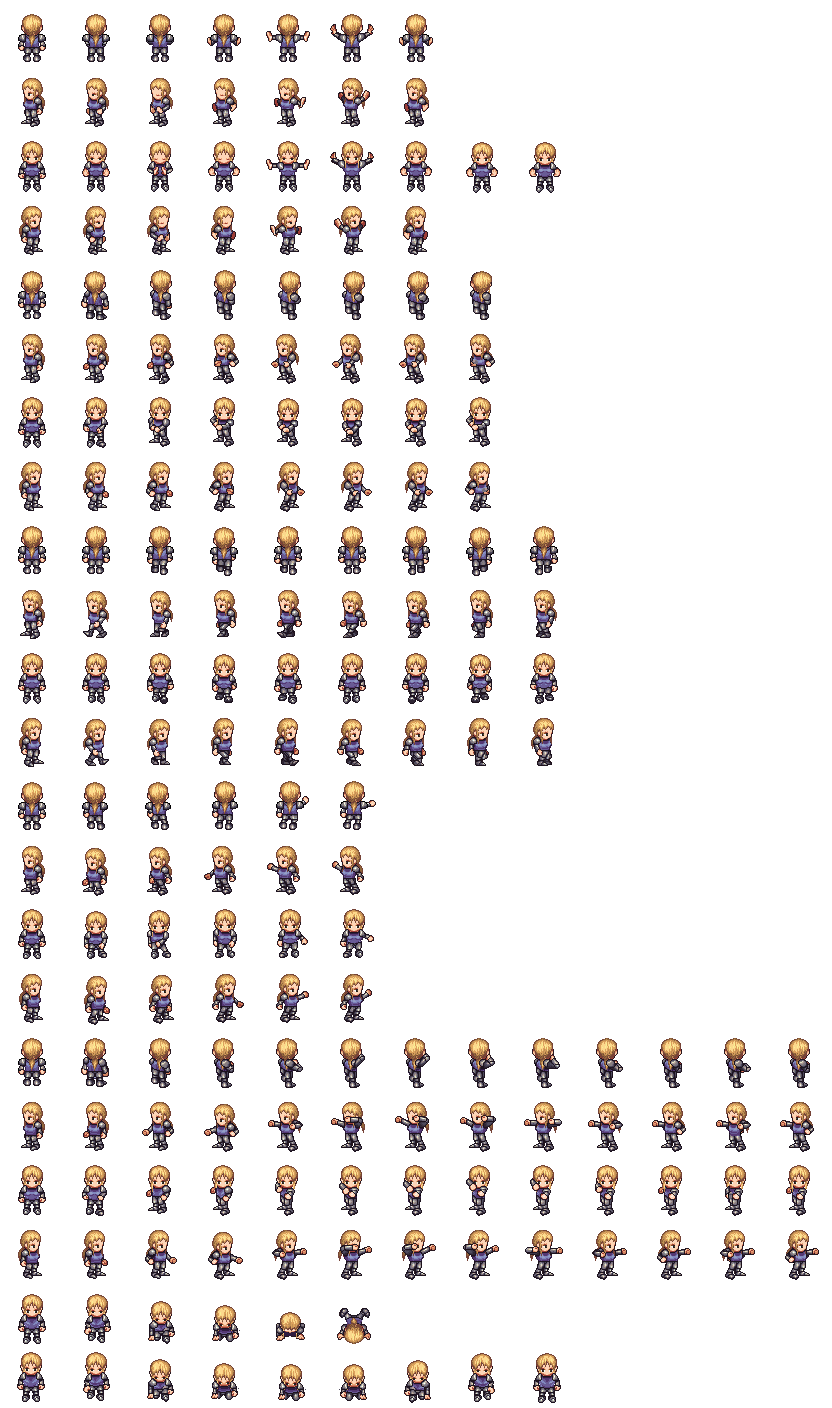
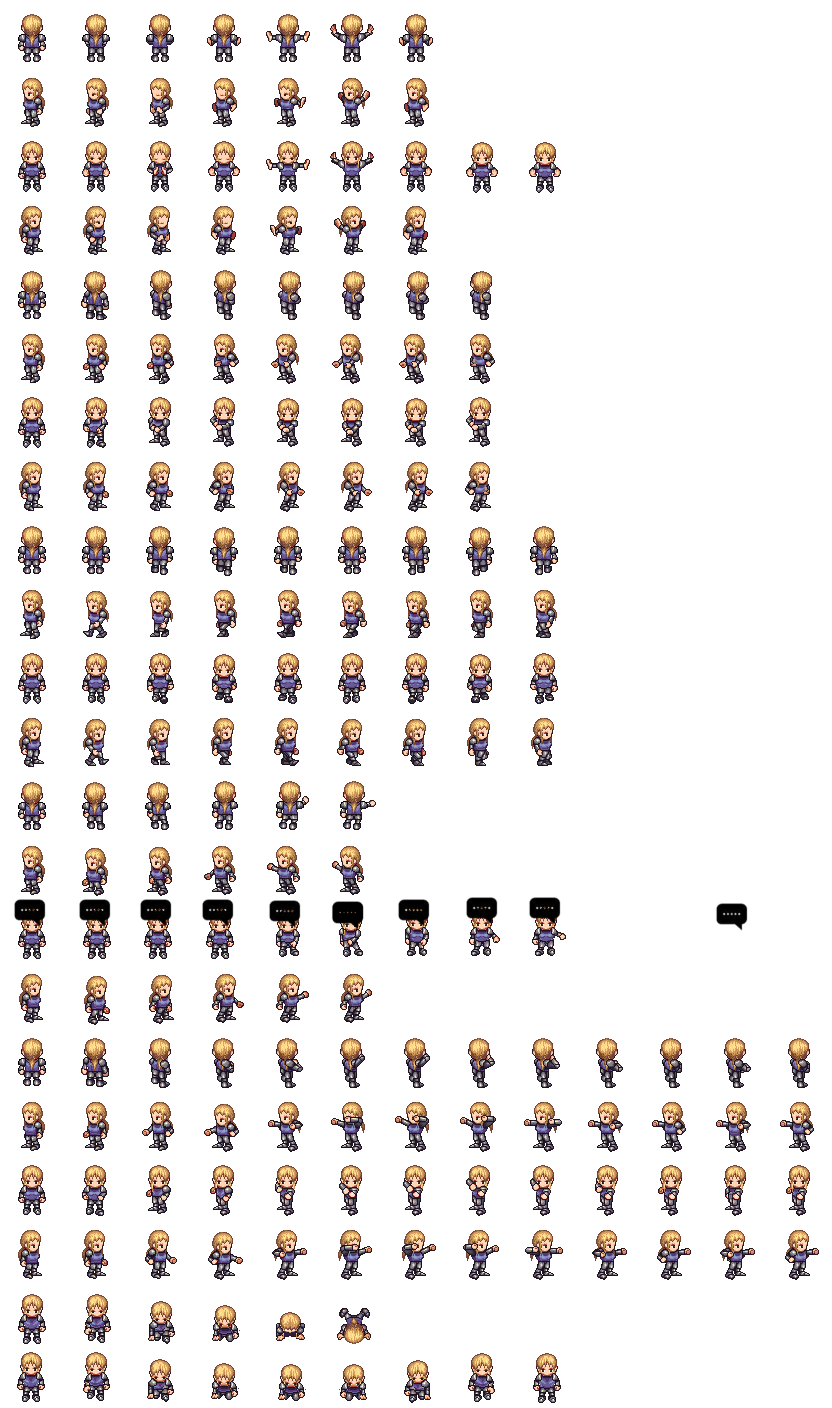
[+] added broadcast animation + broadcast command

diff --git a/Src/ParseEnqueueMap.cpp b/Src/ParseEnqueueMap.cpp
@@ -226,6 +226,9 @@ void irc::ParseEnqueueMap::parseNextCommand(irc::Map &map)
 		} else if (it.getCommandName() == "pic") {
 			std::cout << "c une incantation" << std::endl;
 			incantPlayer(map, it);
+		} else if (it.getCommandName() == "pbc") {
+			std::cout << "c un broadcast" << std::endl;
+			broadcastPlayer(map, it);
 		}
 		_comm.getEnqueueMap().erase(_comm.getEnqueueMap().begin());
 
@@ -508,5 +511,15 @@ void irc::ParseEnqueueMap::incantPlayer(irc::Map &map, const CstringArray &comma
 		map.getCharacterMap().at(command.getCommand()[i]).setPlayerIncant(tmpFreq, 300, tmpPos);
 		++i;
 	}
+}
 
+void irc::ParseEnqueueMap::broadcastPlayer(irc::Map &map, const CstringArray &command)
+{
+	int tmpFreq = map.getComm().getFreq();
+		std::cout << "je boucle" << std::endl;
+		if (map.getCharacterMap().find((command.getCommand()[0])) == map.getCharacterMap().end()) {
+			std::cout << "[" << RED << "MAP"<< RESET << "] did not found player " << command.getCommand()[0] << ", exit broadcastPLayer"<< std::endl;
+		std::cout << "[" << GREEN << "MAP" << RESET << "] broadcast of player [" << command.getCommand()[0] << "]" << std::endl;
+		map.getCharacterMap().at(command.getCommand()[0]).setPlayerBroadcast(tmpFreq, 7);
+	}
 }

diff --git a/Src/Entity/Character.cpp b/Src/Entity/Character.cpp
@@ -16,6 +16,7 @@ Character::Character(std::map<char, std::vector<sf::Texture>> &_texturePack, sf:
 		_sprite[WALK_DOWN].emplace_back(sf::Sprite());
 		_sprite[TAKE].emplace_back(sf::Sprite());
 		_sprite[INCANT].emplace_back(sf::Sprite());
+		_sprite[BROADCAST].emplace_back(sf::Sprite());
 	}
 	for (int i = 0; i < 9; i++) {
 		_sprite[WALK_LEFT][i].setTexture(_texturePack[WALK_LEFT][i]);
@@ -24,6 +25,7 @@ Character::Character(std::map<char, std::vector<sf::Texture>> &_texturePack, sf:
 		_sprite[WALK_DOWN][i].setTexture(_texturePack[WALK_DOWN][i]);
 		_sprite[TAKE][i].setTexture(_texturePack[TAKE][i]);
 		_sprite[INCANT][i].setTexture(_texturePack[INCANT][i]);
+		_sprite[BROADCAST][i].setTexture(_texturePack[BROADCAST][i]);
 	}
 	usleep(100);
 	srand(time(NULL));
@@ -199,5 +201,15 @@ void Character::setPlayerIncant(int freq, int duration, sf::Vector2f &newPos)
 	_actualSprite = 0;
 	_totalDist = 0;
 	_orientation = INCANT;
+	_action = true;
+}
+
+void Character::setPlayerBroadcast(int freq, int duration)
+{
+	_duration = duration;
+	_freq = freq;
+	_orientation = BROADCAST;
+	_actualSprite = 0;
+	_totalDist = 0;
 	_action = true;
 }

diff --git a/Src/Grid.cpp b/Src/Grid.cpp
@@ -147,6 +147,7 @@ bool Grid::loadTextures()
 			_textureCharacterPack[it][WALK_DOWN].emplace_back(sf::Texture());
 			_textureCharacterPack[it][TAKE].emplace_back(sf::Texture());
 			_textureCharacterPack[it][INCANT].emplace_back(sf::Texture());
+			_textureCharacterPack[it][BROADCAST].emplace_back(sf::Texture());
 		}
 
 		for (int i = 0; i < 9; i++) {
@@ -156,6 +157,7 @@ bool Grid::loadTextures()
 			_textureCharacterPack[it][WALK_RIGHT][i].loadFromFile("extra/game/Character" + std::to_string(textureFiles) + ".png", sf::IntRect(i * 64, 704, 64, 64));
 			_textureCharacterPack[it][TAKE][i].loadFromFile("extra/game/Character" + std::to_string(textureFiles) + ".png", sf::IntRect(i * 64, 1344, 64, 64));
 			_textureCharacterPack[it][INCANT][i].loadFromFile("extra/game/Character" + std::to_string(textureFiles) + ".png", sf::IntRect(i * 64, 128, 64, 64));
+			_textureCharacterPack[it][BROADCAST][i].loadFromFile("extra/game/Character" + std::to_string(textureFiles) + ".png", sf::IntRect(i * 64, 896, 64, 64));
 		}
 		textureFiles++;
 		if (textureFiles > 3)

diff --git a/Include/Entity/Character.hpp b/Include/Entity/Character.hpp
@@ -21,7 +21,8 @@ class Character : public AMotionShape {
 		WALK_DOWN = 3,
 		WALK_LEFT = 4,
 		TAKE = 5,
-		INCANT = 6
+		INCANT = 6,
+		BROADCAST = 7
 	};
 	public:
 	Character(std::map<char, std::vector<sf::Texture>> &_texturePack, sf::Vector2f &position, uint id, int freq);
@@ -40,6 +41,7 @@ class Character : public AMotionShape {
 	void setPlayerMovement(sf::Vector2f &finalPos, const uint &orientation, int freq, int duration);
 	void setPlayerTake(int freq, int duration);
 	void setPlayerIncant(int freq, int duration, sf::Vector2f &newPos);
+	void setPlayerBroadcast(int freq, int duration);
 	static bool playerLoop(sf::RenderWindow &window);
 
 	const sf::Vector2f &getPlayerPosition() const;

diff --git a/Include/Class/ManageServer.hpp b/Include/Class/ManageServer.hpp
@@ -49,6 +49,7 @@ namespace irc {
 		{"endtna", &irc::ManageServer::parseLine8Input}, // team finish
 		{"bct", &irc::ManageServer::parseLine8Input},
 		{"pic", &irc::ManageServer::parseLine8Input}, // start incantation
+		{"pbc", &irc::ManageServer::parseLine8Input}, // broadcast
 		{"pdi", &irc::ManageServer::parseLine8Input},
 		{"pin", &irc::ManageServer::parseLine8Input},
 		{"nbt", &irc::ManageServer::parseLine1Input},

diff --git a/Include/ParseEnqueueMap.hpp b/Include/ParseEnqueueMap.hpp
@@ -39,6 +39,7 @@ class ParseEnqueueMap {
 	bool addRandomResource(irc::Map &map, const CstringArray &command);
 	void movePlayerOrientation(irc::Map &map, const CstringArray &command);
 	void incantPlayer(irc::Map &map, const CstringArray &command);
+	void broadcastPlayer(irc::Map &map, const CstringArray &command);
 
 	private:
 	irc::Communication &_comm;

diff --git a/Include/Class/Communication.hpp b/Include/Class/Communication.hpp
@@ -114,6 +114,7 @@ namespace irc {
 			{"bct", irc::TYPE_ENQUEUE::T_BOTH},
 			{"pdi", irc::TYPE_ENQUEUE::T_MAP},
 			{"pnw", irc::TYPE_ENQUEUE::T_MAP},
+			{"pbc", irc::TYPE_ENQUEUE::T_MAP}, // broadcast
 			{"tna", irc::TYPE_ENQUEUE::T_MAP}, // team number
 			{"endtna", irc::TYPE_ENQUEUE::T_MAP}, // team finish
 			{"pin", irc::TYPE_ENQUEUE::T_GUI},

diff --git a/Include/Grid.hpp b/Include/Grid.hpp
@@ -33,7 +33,8 @@ class Grid {
 		WALK_DOWN = 3,
 		WALK_LEFT = 4,
 		TAKE = 5,
-		INCANT = 6
+		INCANT = 6,
+		BROADCAST = 7
 	};
 
 	typedef std::pair<uint, uint> 				POSITION;
